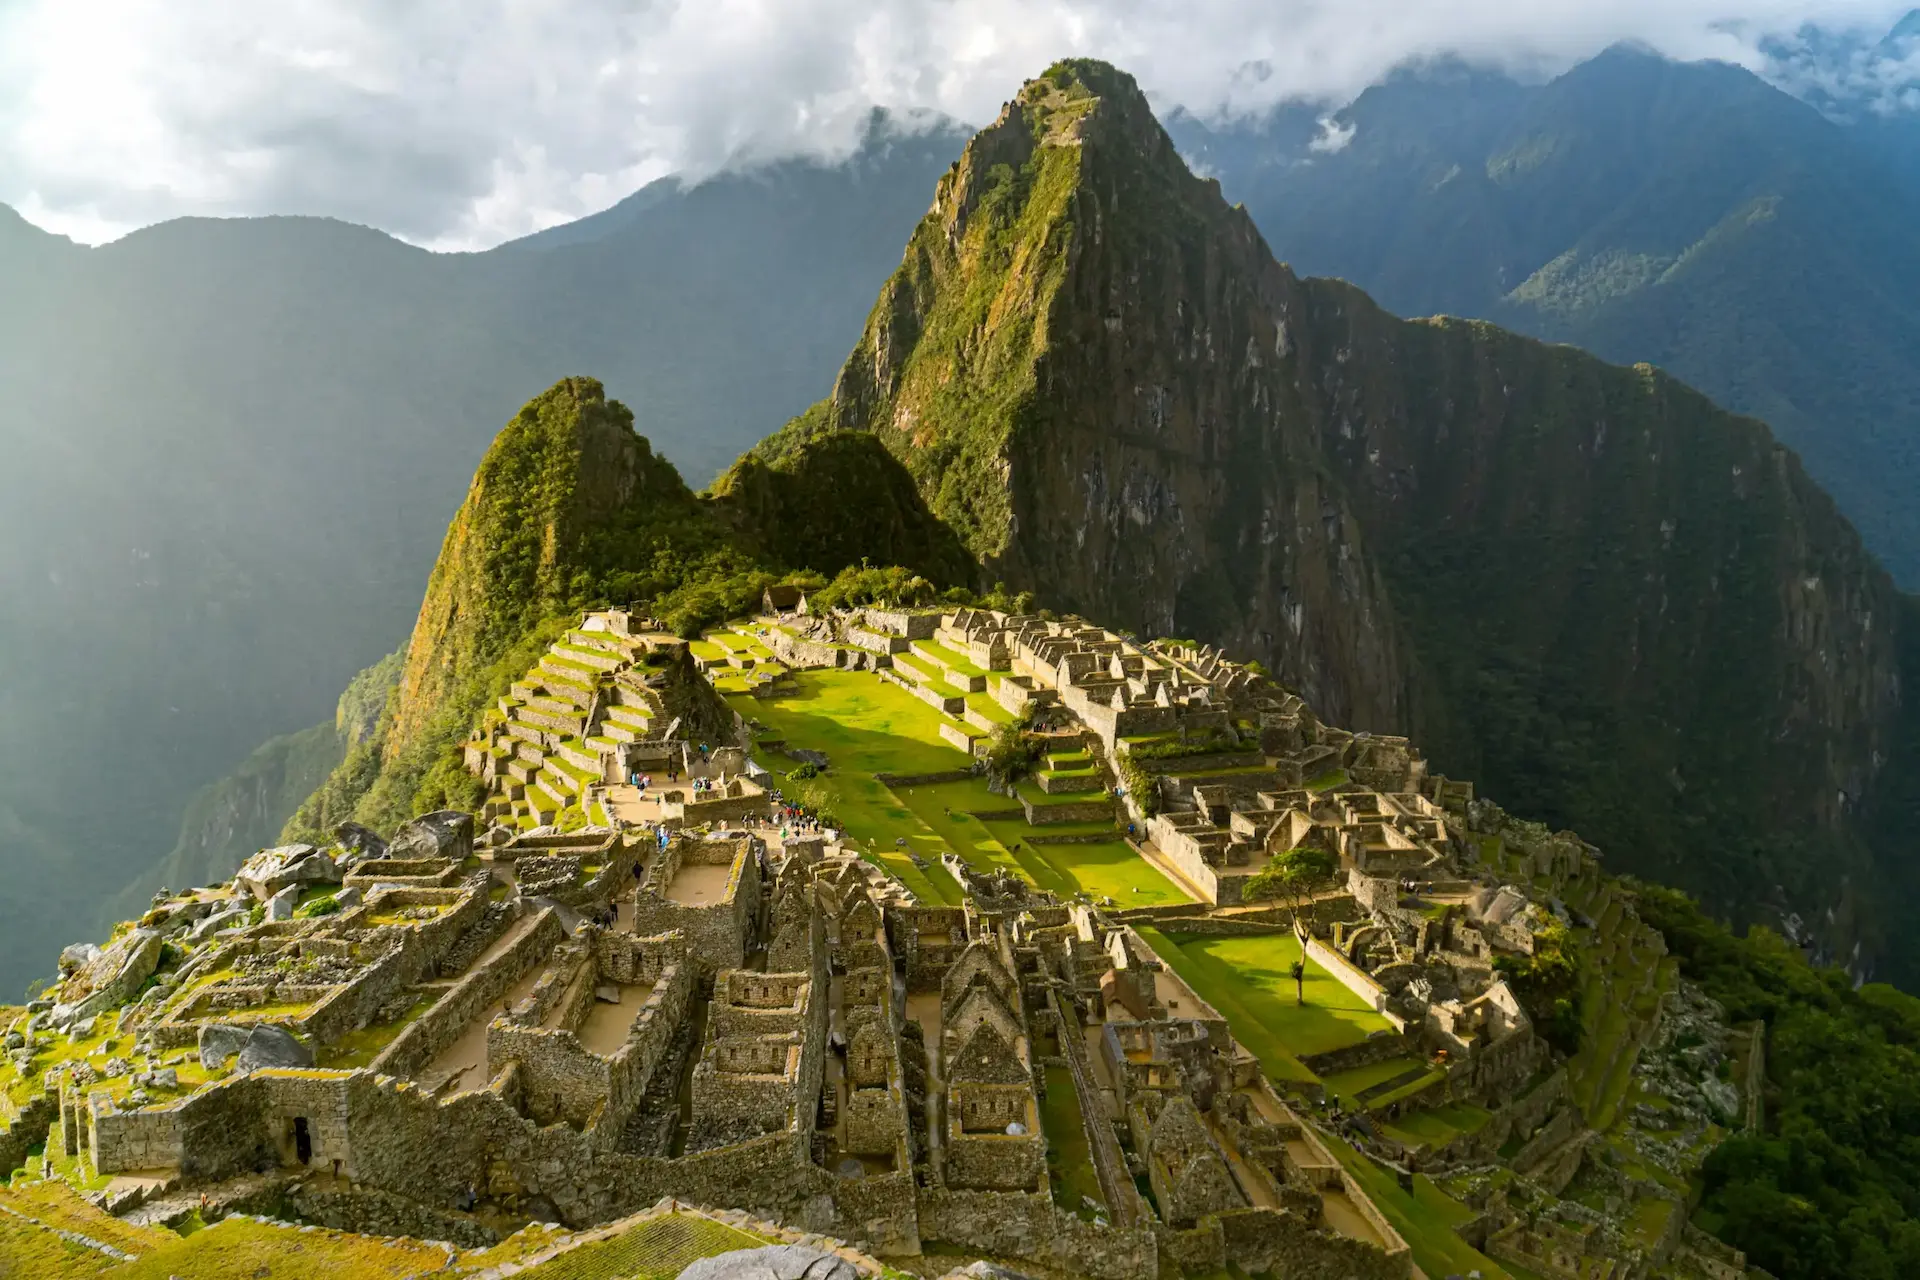
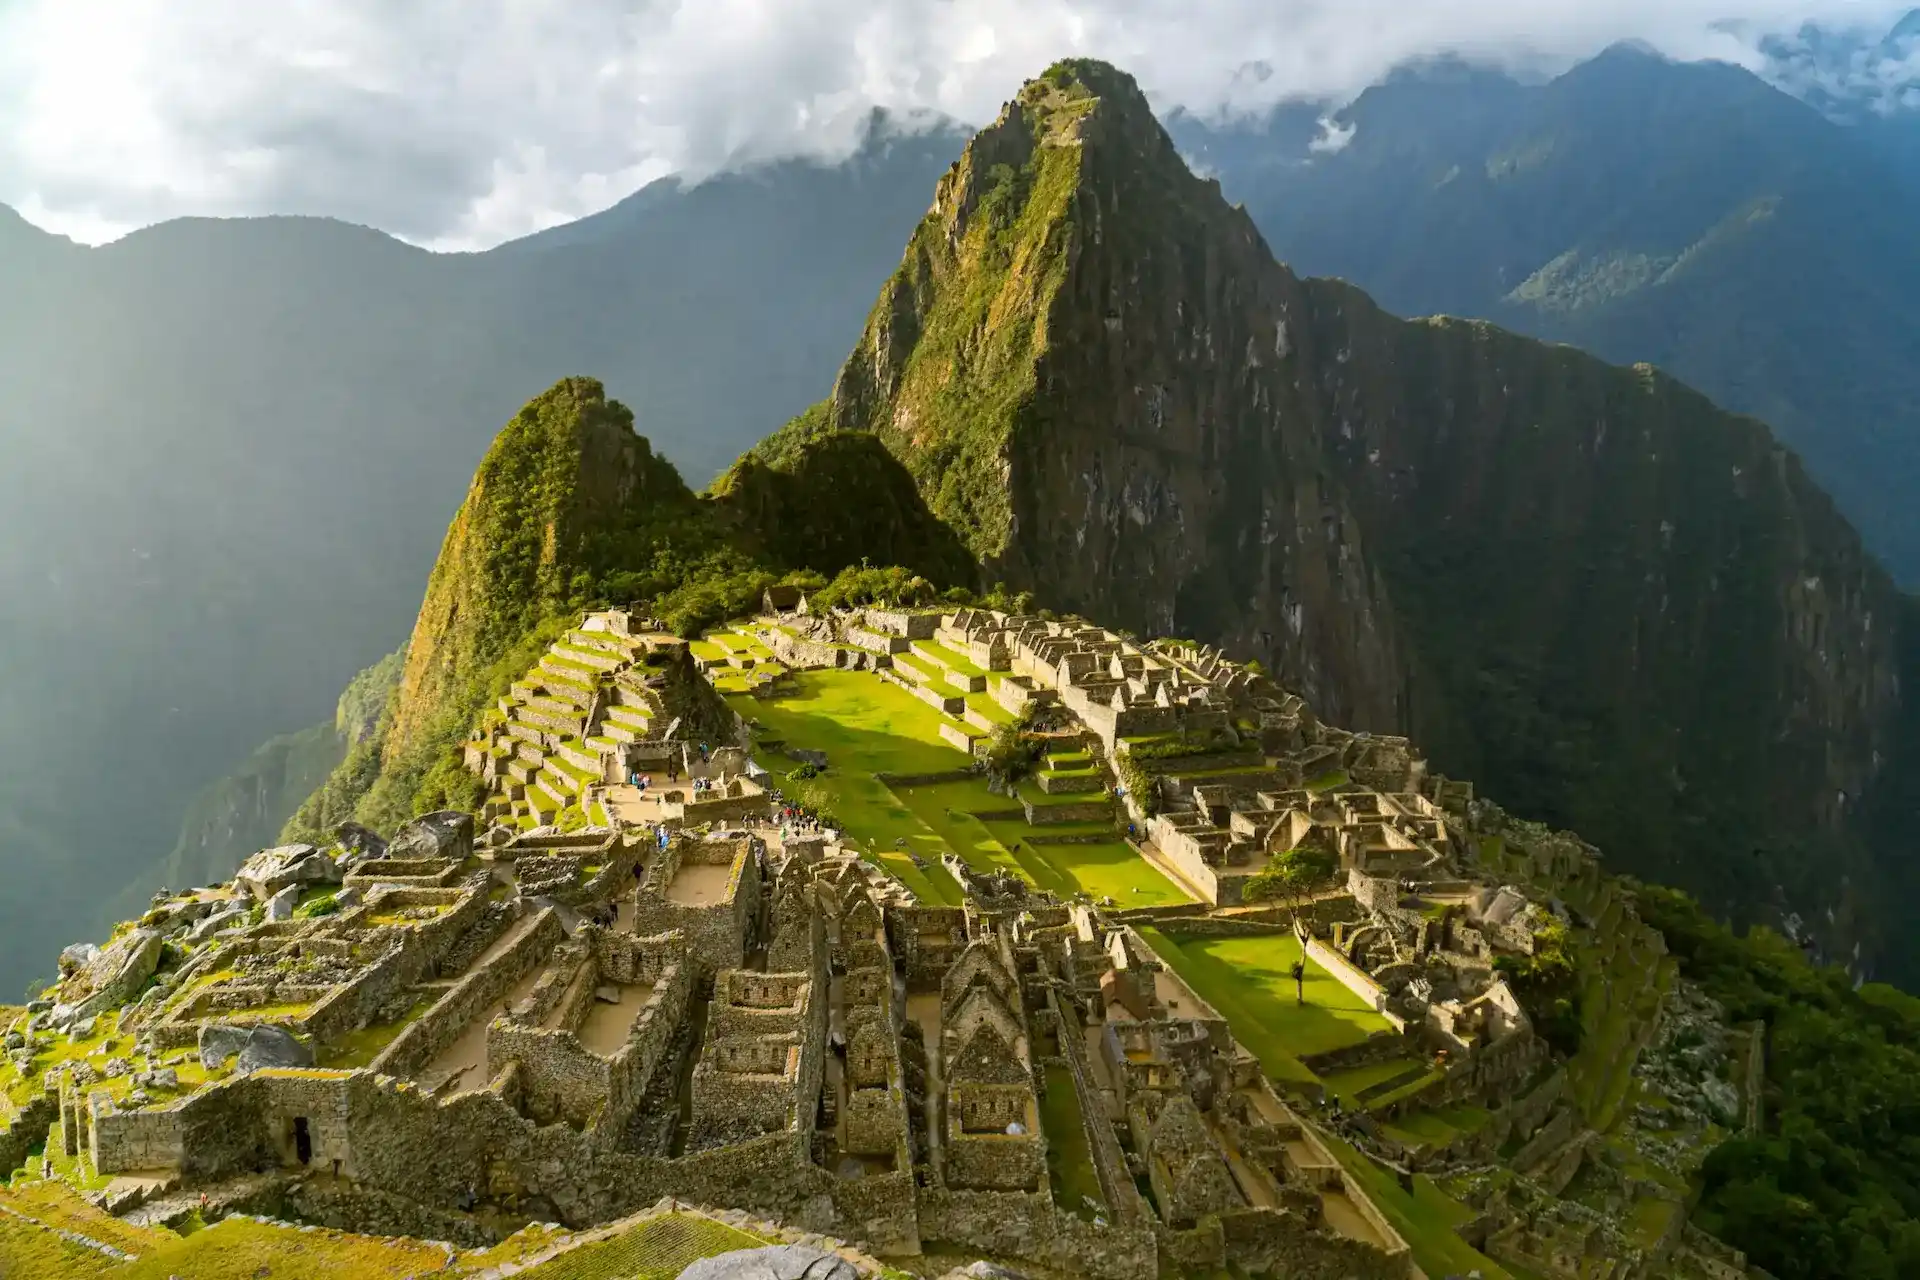
contry-page-fixed

diff --git a/styles/place.css b/styles/place.css
@@ -12,6 +12,15 @@
     font-weight: 100;
 }
 
+header h1::after {
+    content: "";
+    display: block;
+    width: 60px;
+    height: 3px;
+    background: var(--secondary-color);
+    margin: 8px auto 0;
+}
+
 h1 {
     display: block;
     background: var(--background-color);
@@ -177,16 +186,25 @@ footer {
     }
 
     .weather .logo {
+        display: none;
+    }
+
+    .weather h3 {
+        position: relative;
+        padding-right: 45px;
+    }
+
+    .weather h3::after {
+        content: "";
         position: absolute;
-        top: 15px;
-        right: 25px;
-        width: auto;
+        top: 50%;
+        right: 0;
+        transform: translateY(-50%);
+        width: 50px;
+        height: 50px;
+        background-image: url('../images/icono_clima.svg');
+        background-size: contain;
+        background-repeat: no-repeat;
     }
-
-    .logo img {
-        width: 60px;
-        height: 95px;
-    }
-
-
+        
 }

diff --git a/place.html b/place.html
@@ -27,7 +27,7 @@
             <picture>
                 <source srcset="images/hero-large.webp" media="(min-width: 1000px)">
                 <source srcset="images/hero-medium.webp" media="(min-width: 500px)">
-                <img src="images/hero-small.webp" alt="Machu Pichu, Perú" width="390" height="auto">
+                <img src="images/hero-small.webp" alt="Machu Pichu, Perú" width="390">
             </picture>
         </div>
 
